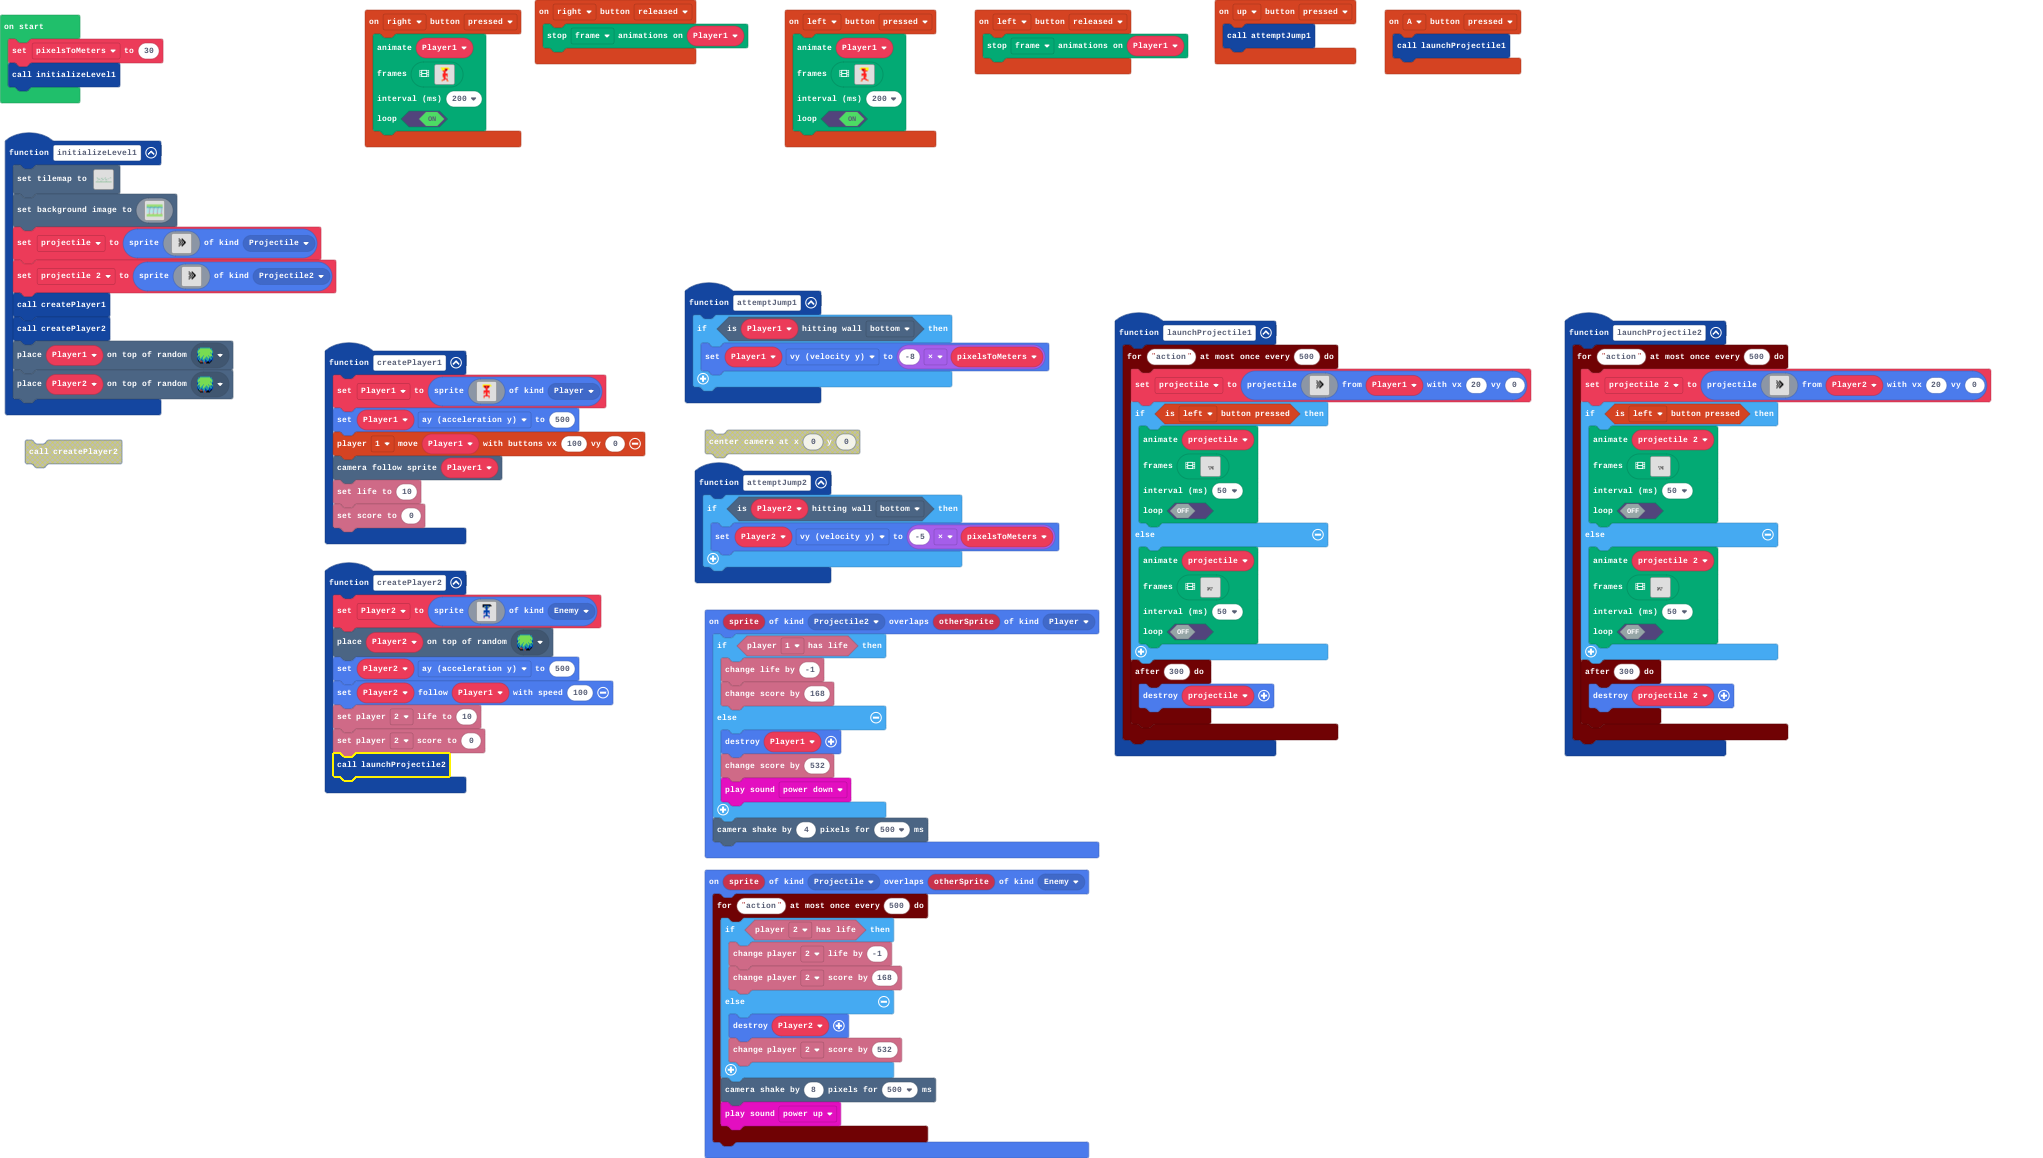
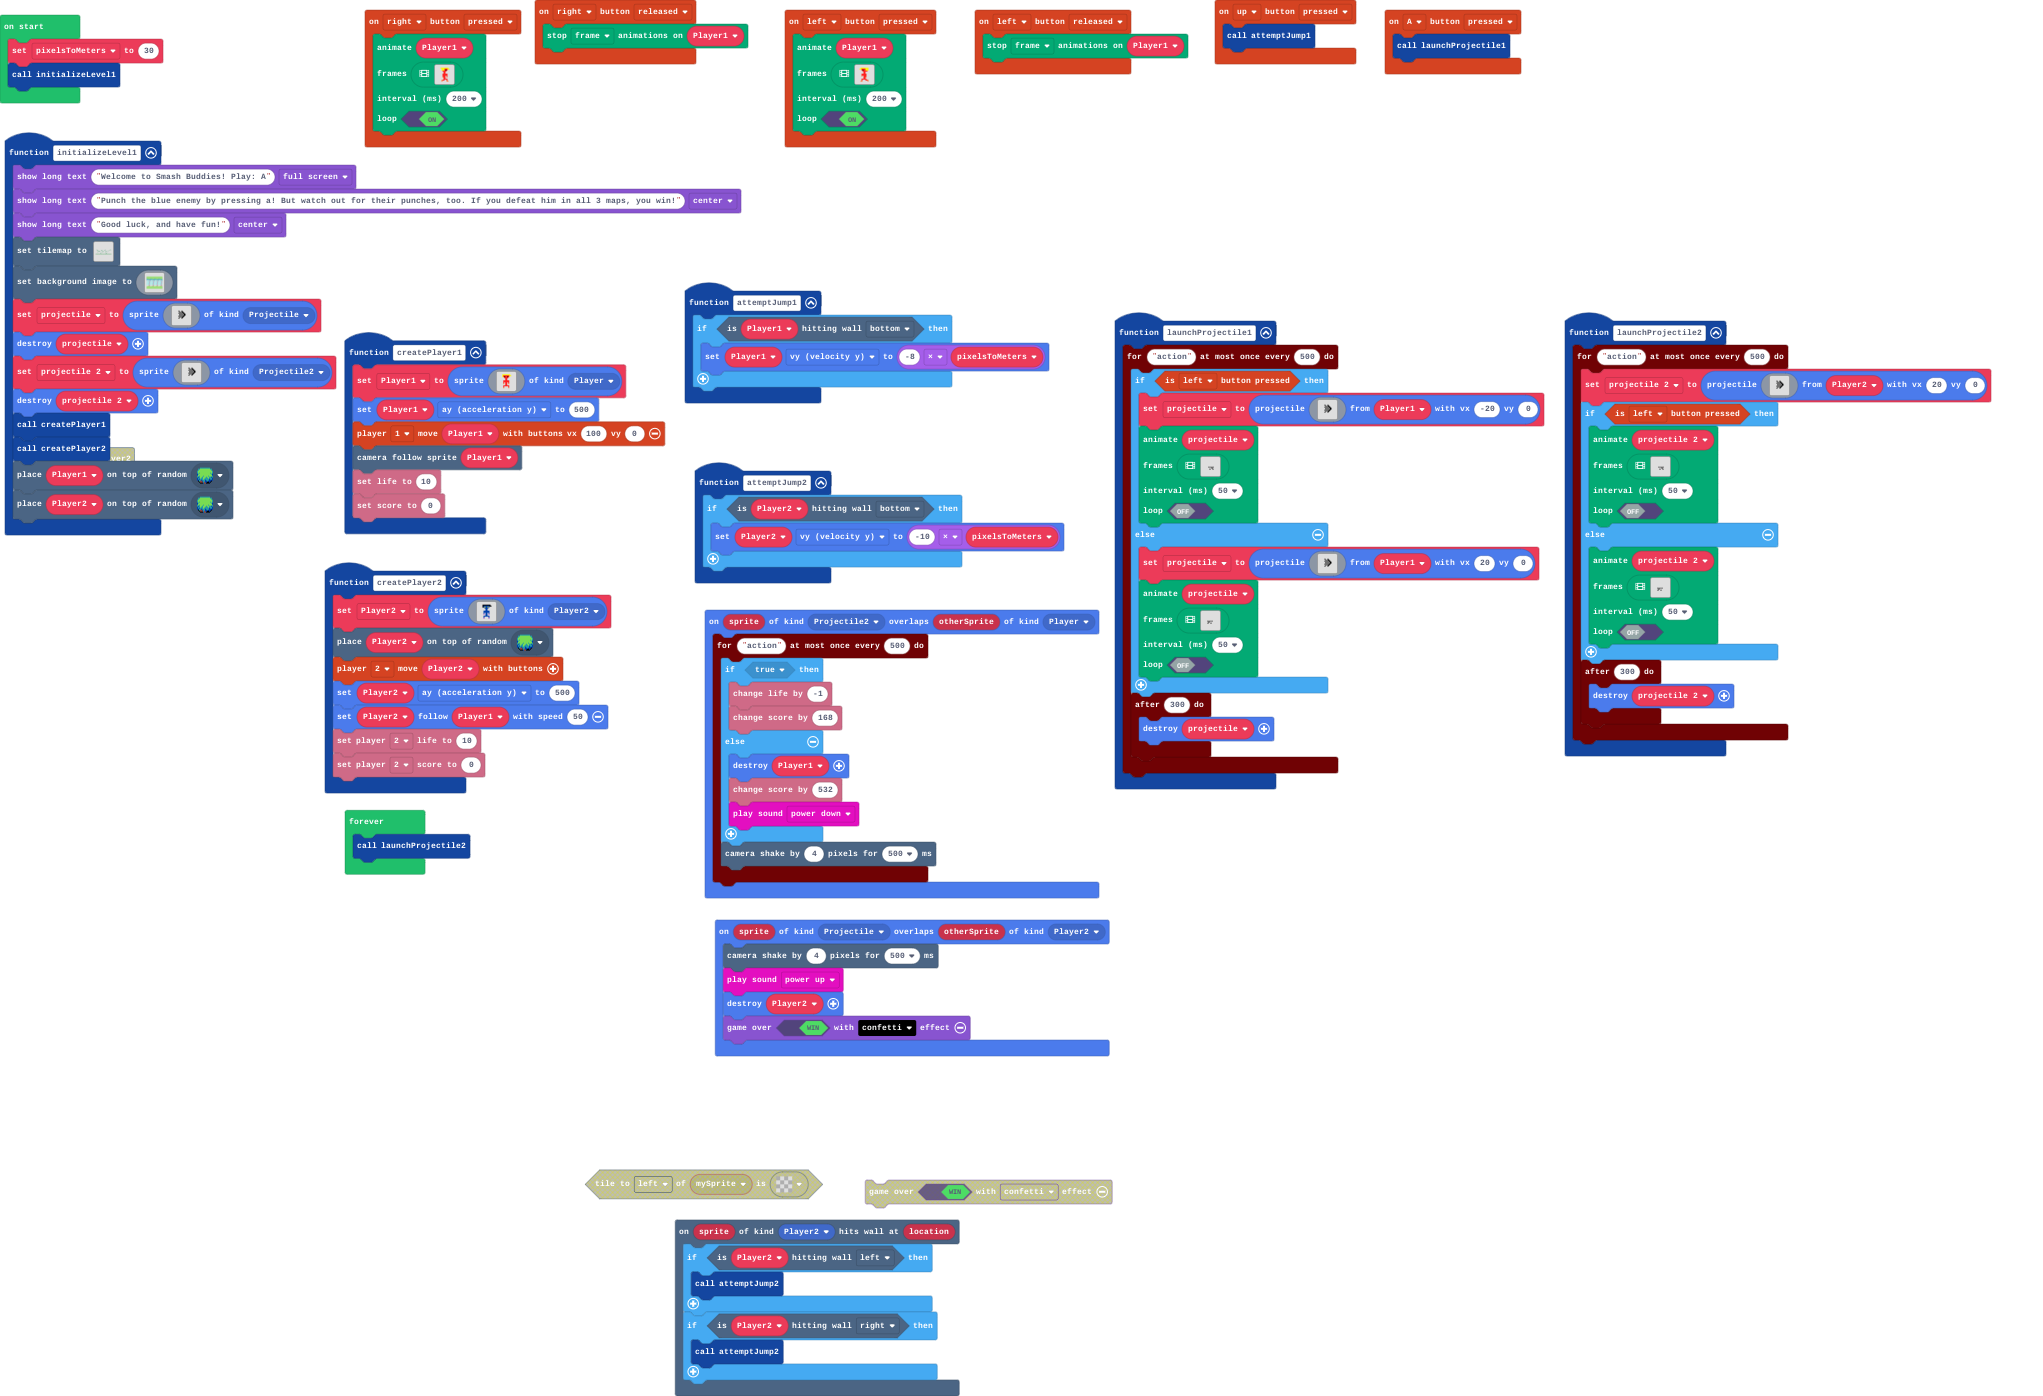
Update main.blocks, main.ts, tilemap.g.jres, tilemap.g.ts

Changed region(s): [[0.0, 0.0, 0.9868, 1.0]]

diff --git a/main.ts b/main.ts
@@ -4,8 +4,8 @@ namespace SpriteKind {
 }
 function launchProjectile1 () {
     timer.throttle("action", 500, function () {
-        projectile = sprites.createProjectileFromSprite(assets.image`punchRight1`, Player1, 20, 0)
         if (controller.left.isPressed()) {
+            projectile = sprites.createProjectileFromSprite(assets.image`punchRight1`, Player1, -20, 0)
             animation.runImageAnimation(
             projectile,
             assets.animation`PunchLeftAnimation`,
@@ -13,6 +13,7 @@ function launchProjectile1 () {
             false
             )
         } else {
+            projectile = sprites.createProjectileFromSprite(assets.image`punchRight1`, Player1, 20, 0)
             animation.runImageAnimation(
             projectile,
             assets.animation`PunchRightAnimation`,
@@ -26,24 +27,40 @@ function launchProjectile1 () {
     })
 }
 sprites.onOverlap(SpriteKind.Projectile2, SpriteKind.Player, function (sprite, otherSprite) {
-    if (info.player1.hasLife()) {
-        info.changeLifeBy(-1)
-        info.changeScoreBy(168)
-    } else {
-        Player1.destroy()
-        info.changeScoreBy(532)
-        music.powerDown.play()
-    }
-    scene.cameraShake(4, 500)
+    timer.throttle("action", 500, function () {
+        if (true) {
+            info.changeLifeBy(-1)
+            info.changeScoreBy(168)
+        } else {
+            Player1.destroy()
+            info.changeScoreBy(532)
+            music.powerDown.play()
+        }
+        scene.cameraShake(4, 500)
+    })
 })
 controller.up.onEvent(ControllerButtonEvent.Pressed, function () {
     attemptJump1()
 })
+scene.onHitWall(SpriteKind.Player2, function (sprite, location) {
+    if (Player2.isHittingTile(CollisionDirection.Left)) {
+        attemptJump2()
+    }
+    if (Player2.isHittingTile(CollisionDirection.Right)) {
+        attemptJump2()
+    }
+})
 function attemptJump2 () {
     if (Player2.isHittingTile(CollisionDirection.Bottom)) {
-        Player2.vy = -5 * pixelsToMeters
+        Player2.vy = -10 * pixelsToMeters
     }
 }
+sprites.onOverlap(SpriteKind.Projectile, SpriteKind.Player2, function (sprite, otherSprite) {
+    scene.cameraShake(4, 500)
+    music.powerUp.play()
+    Player2.destroy()
+    game.over(true, effects.confetti)
+})
 controller.A.onEvent(ControllerButtonEvent.Pressed, function () {
     launchProjectile1()
 })
@@ -59,6 +76,9 @@ controller.right.onEvent(ControllerButtonEvent.Released, function () {
     animation.stopAnimation(animation.AnimationTypes.ImageAnimation, Player1)
 })
 function initializeLevel1 () {
+    game.showLongText("Welcome to Smash Buddies! Play: A", DialogLayout.Full)
+    game.showLongText("Punch the blue enemy by pressing a! But watch out for their punches, too. If you defeat him in all 3 maps, you win!", DialogLayout.Center)
+    game.showLongText("Good luck, and have fun!", DialogLayout.Center)
     tiles.setTilemap(tilemap`Level1`)
     scene.setBackgroundImage(img`
         7777777777777777777777777777777777777777777777777777777777777777777777777777777777777777777777777777777777777777777777777777777777777777777777777777777777777777
@@ -183,7 +203,9 @@ function initializeLevel1 () {
         7777777777777777777777777777777777777777777777777777777777777777777777777777777777777777777777777777777777777777777777777777777777777777777777777777777777777777
         `)
     projectile = sprites.create(assets.image`punchRight1`, SpriteKind.Projectile)
+    projectile.destroy()
     projectile_2 = sprites.create(assets.image`punchRight2`, SpriteKind.Projectile2)
+    projectile_2.destroy()
     createPlayer1()
     createPlayer2()
     tiles.placeOnRandomTile(Player1, sprites.builtin.forestTiles0)
@@ -237,27 +259,14 @@ function createPlayer1 () {
     info.setScore(0)
 }
 function createPlayer2 () {
-    Player2 = sprites.create(assets.image`Player2Stationary`, SpriteKind.Enemy)
+    Player2 = sprites.create(assets.image`Player2Stationary`, SpriteKind.Player2)
     tiles.placeOnRandomTile(Player2, sprites.builtin.forestTiles0)
+    controller.player2.moveSprite(Player2)
     Player2.ay = 500
-    Player2.follow(Player1, 100)
+    Player2.follow(Player1, 50)
     info.player2.setLife(10)
     info.player2.setScore(0)
-    launchProjectile2()
 }
-sprites.onOverlap(SpriteKind.Projectile, SpriteKind.Enemy, function (sprite, otherSprite) {
-    timer.throttle("action", 500, function () {
-        if (info.player2.hasLife()) {
-            info.player2.changeLifeBy(-1)
-            info.player2.changeScoreBy(168)
-        } else {
-            Player2.destroy()
-            info.player2.changeScoreBy(532)
-        }
-        scene.cameraShake(8, 500)
-        music.powerUp.play()
-    })
-})
 let projectile_2: Sprite = null
 let Player2: Sprite = null
 let Player1: Sprite = null
@@ -265,3 +274,6 @@ let projectile: Sprite = null
 let pixelsToMeters = 0
 pixelsToMeters = 30
 initializeLevel1()
+forever(function () {
+    launchProjectile2()
+})

diff --git a/tilemap.g.ts b/tilemap.g.ts
@@ -63,7 +63,7 @@ namespace myTiles {
 . . . . . . . . . . . . . . . . 
 `, [myTiles.transparency16], TileScale.Sixteen);
             case "Level1":
[2 lines of base64/hex data omitted]
 2......................................2
 2......................................2
 2......................................2
@@ -76,7 +76,7 @@ namespace myTiles {
 2......................................2
 2...2.2......2................2........2
 2............2.............2...........2
-2............2............2............2
+2............2............22...........2
 2222222222222222222222222222222222222222
 `, [myTiles.transparency16,sprites.builtin.forestTiles0,sprites.builtin.forestTiles3,sprites.builtin.forestTiles1,sprites.builtin.forestTiles2,sprites.builtin.forestTiles4], TileScale.Sixteen);
         }
